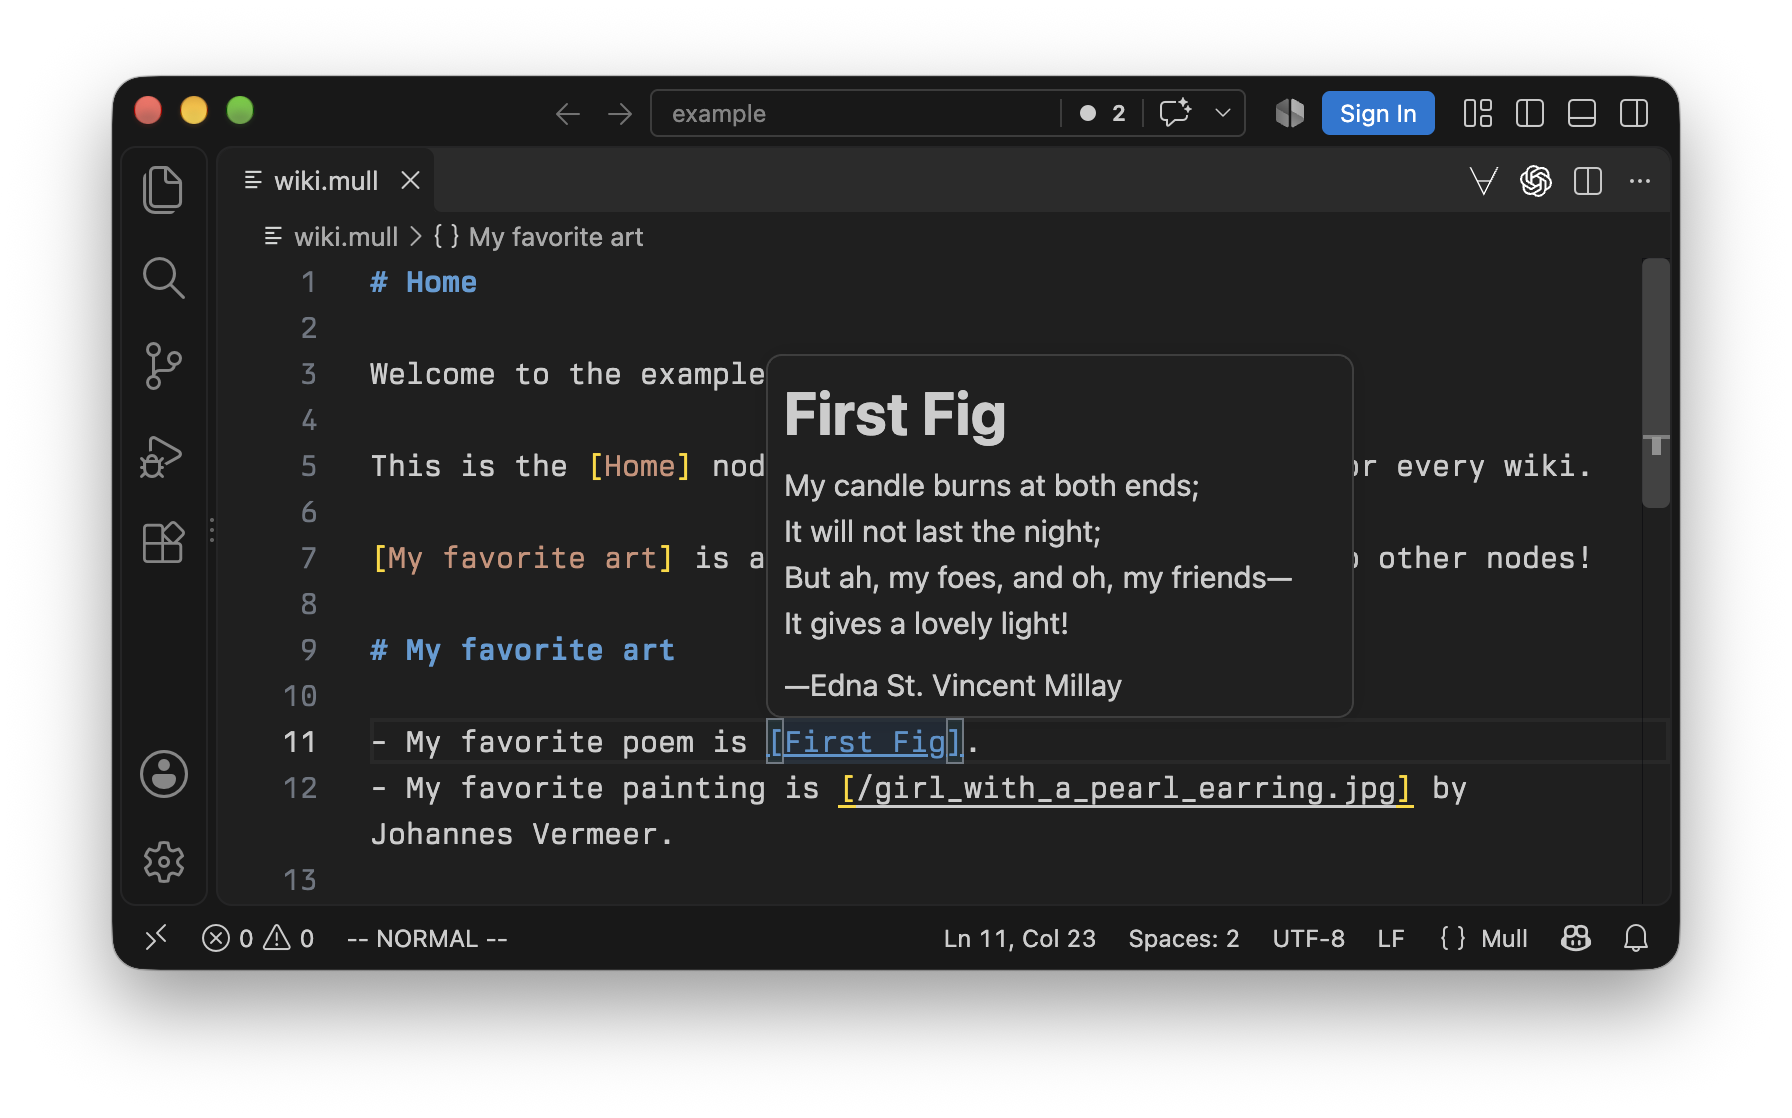
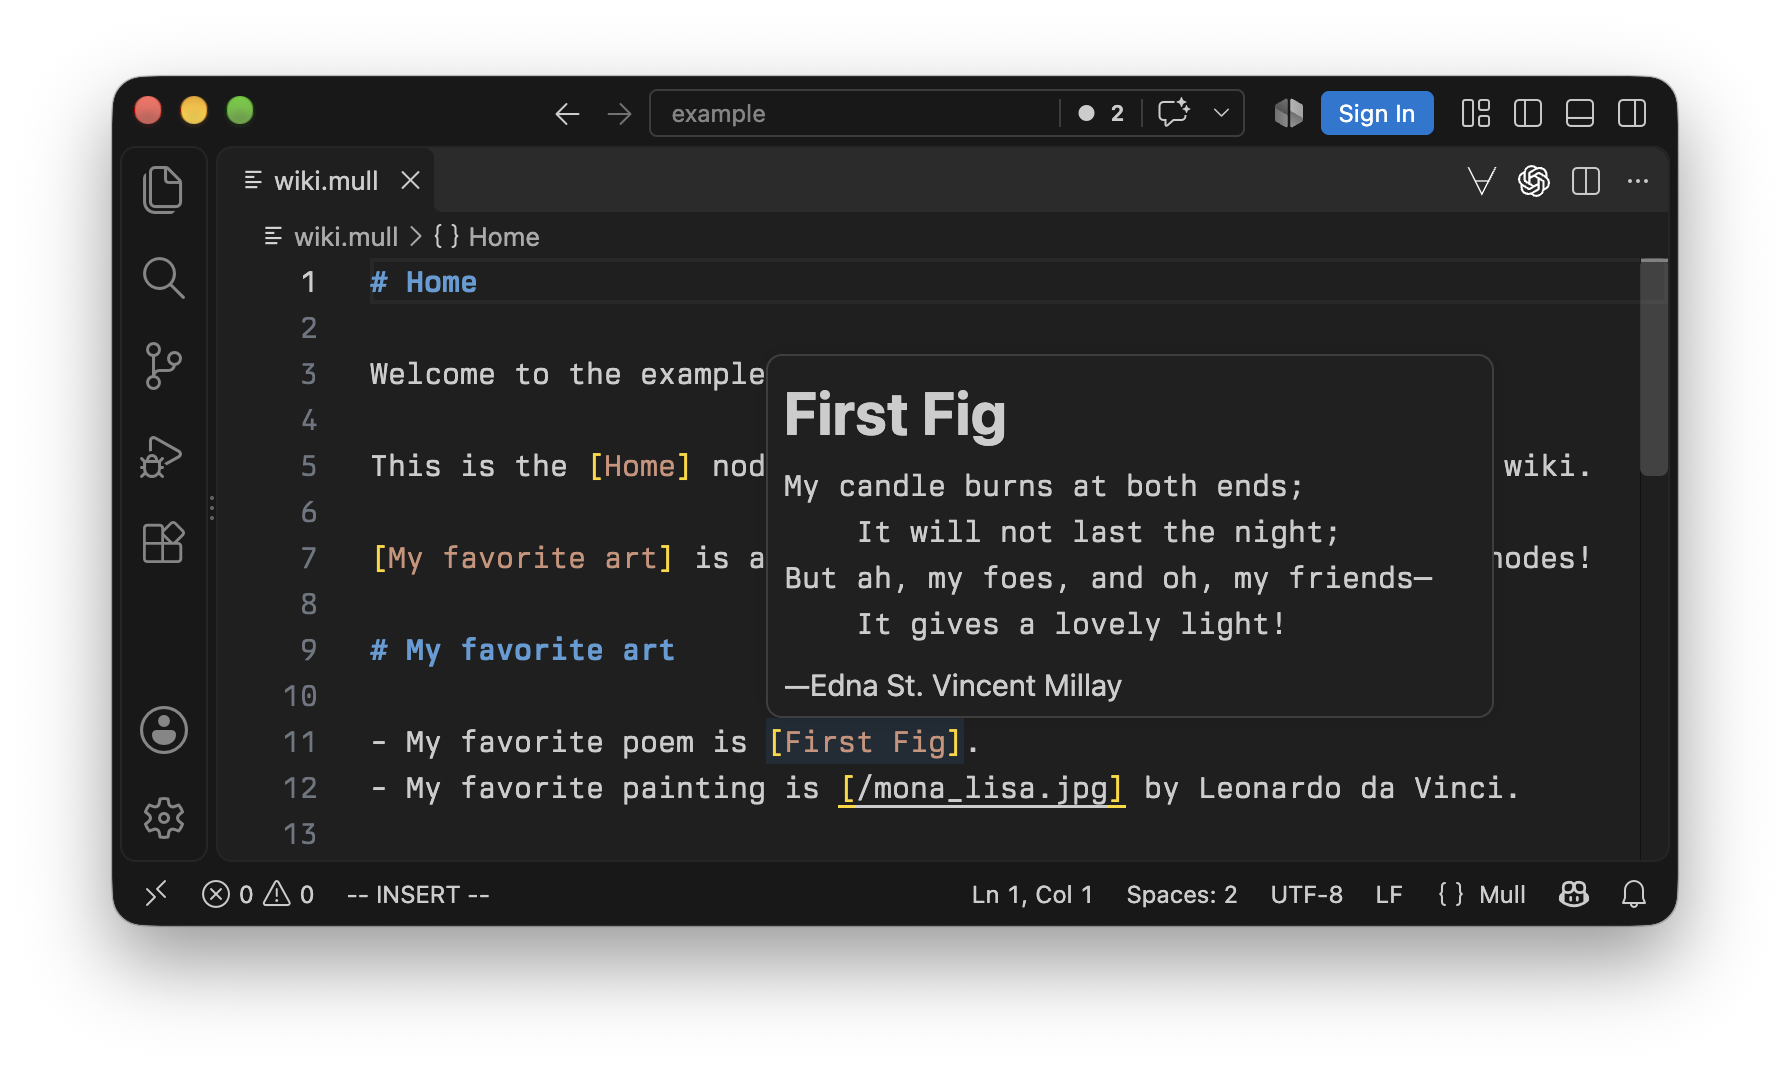
Use the Mona Lisa as the example wiki's painting
Replace the example's painting, update its links in the example wiki and the
README, move the screenshot above the README's introduction, and refresh the
screenshot.

diff --git a/README.md b/README.md
@@ -2,9 +2,9 @@
 
 [![Build status](https://github.com/stepchowfun/mull/actions/workflows/ci.yml/badge.svg?branch=main)](https://github.com/stepchowfun/mull/actions?query=branch%3Amain)
 
-*Mull* is a tool for managing a local personal knowledge wiki as a plain text file. The wiki contains *nodes* with *links* between them. There's a Visual Studio Code / Cursor extension which provides syntax highlighting, formatting, validation, and language server features like navigation, refactoring, hover previews, etc.
-
 ![Welcome to Mull.](https://raw.githubusercontent.com/stepchowfun/mull/main/screenshot.png)
+
+*Mull* is a tool for managing a local personal knowledge wiki as a plain text file. The wiki contains *nodes* with *links* between them. There's a Visual Studio Code / Cursor extension which provides syntax highlighting, formatting, validation, and language server features like navigation, refactoring, hover previews, etc.
 
 ## An example wiki
 
@@ -12,7 +12,7 @@ A wiki is just a text file with a `.mull` extension.
 
 Each node starts with a `# Heading`, serving as the title of the node. The content comes after the title and is written in Markdown.
 
-To link to a node, put the title in square brackets like `[My favorite art]`. You can also link to local files and directories like `[/girl_with_a_pearl_earring.jpg]`.
+To link to a node, put the title in square brackets like `[My favorite art]`. You can also link to local files and directories like `[/mona_lisa.jpg]`.
 
 ````md
 # Home
@@ -26,7 +26,7 @@ This is the [Home] node, which is the starting point for every wiki.
 # My favorite art
 
 - My favorite poem is [First Fig].
-- My favorite painting is [/girl_with_a_pearl_earring.jpg] by Johannes Vermeer.
+- My favorite painting is [/mona_lisa.jpg] by Leonardo da Vinci.
 
 # First Fig
 
